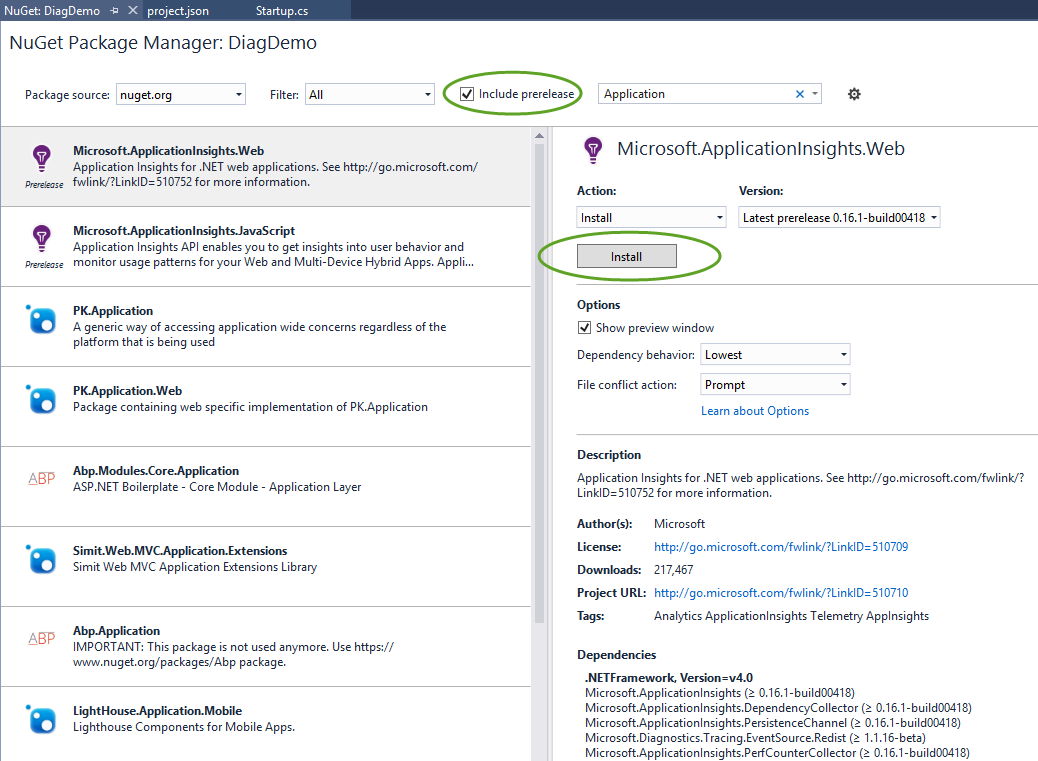
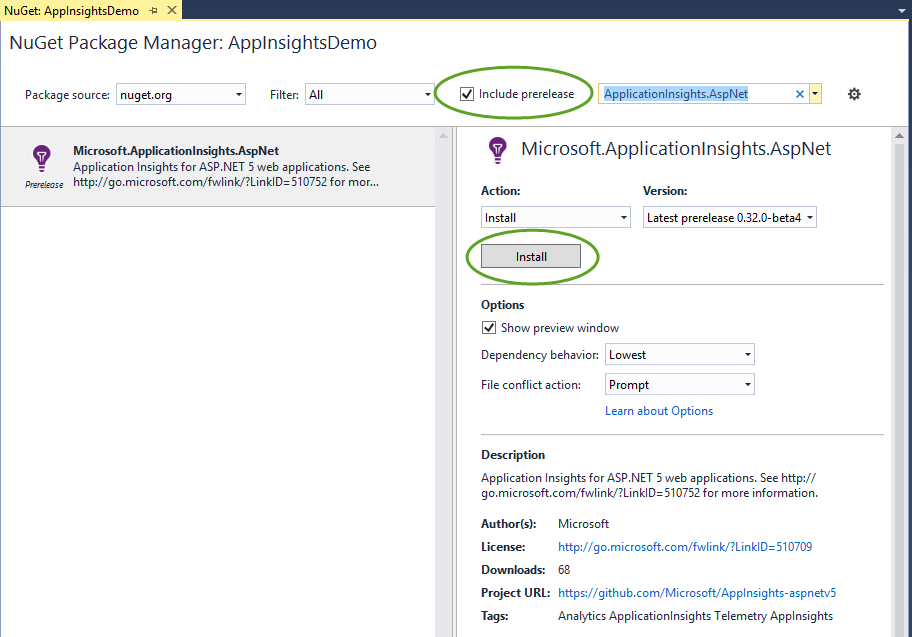
Getting started section about done; needs some testing.

diff --git a/docs/fundamentals/application-insights/sample/src/AppInsightsDemo/Startup.cs b/docs/fundamentals/application-insights/sample/src/AppInsightsDemo/Startup.cs
@@ -10,7 +10,7 @@ using Microsoft.Data.Entity;
 using Microsoft.Framework.ConfigurationModel;
 using Microsoft.Framework.Logging;
 using AppInsightsDemo.Models;
-//using Microsoft.ApplicationInsights.AspNet;
+using Microsoft.ApplicationInsights.AspNet;
 
 namespace AppInsightsDemo
 {
@@ -28,6 +28,7 @@ namespace AppInsightsDemo
                 // This reads the configuration keys from the secret store.
                 // For more details on using the user secret store see http://go.microsoft.com/fwlink/?LinkID=532709
                 configuration.AddUserSecrets();
+                configuration.AddApplicationInsightsSettings(developerMode: true);
             }
             configuration.AddEnvironmentVariables();
             Configuration = configuration;
@@ -41,7 +42,7 @@ namespace AppInsightsDemo
             // Add Application settings to the services container.
             services.Configure<AppSettings>(Configuration.GetSubKey("AppSettings"));
 
-            //services.AddApplicationInsightsTelemetry(Configuration);
+            services.AddApplicationInsightsTelemetry(Configuration);
 
             // Add EF services to the services container.
             services.AddEntityFramework()
@@ -81,6 +82,7 @@ namespace AppInsightsDemo
         public void Configure(IApplicationBuilder app, IHostingEnvironment env, ILoggerFactory loggerfactory)
         {
             // Configure the HTTP request pipeline.
+            app.UseApplicationInsightsRequestTelemetry();
 
             // Add the console logger.
             loggerfactory.AddConsole(minLevel: LogLevel.Warning);
@@ -98,6 +100,7 @@ namespace AppInsightsDemo
                 // sends the request to the following path or controller action.
                 app.UseErrorHandler("/Home/Error");
             }
+            app.UseApplicationInsightsExceptionTelemetry();
 
             // Add static files to the request pipeline.
             app.UseStaticFiles();

diff --git a/docs/fundamentals/application-insights.rst b/docs/fundamentals/application-insights.rst
@@ -29,7 +29,7 @@ Next, update ``project.json`` to add a new reference to ``Microsoft.ApplicationI
 
 .. image:: application-insights/_static/manage-nuget-packages.png
 
-Then be sure you have checked ``Include prerelease`` and that your package source is ``nuget.org``. Search for "Application" and you should see ``Microsoft.ApplicationInsights.Web`` as one of the first choices. Click the ``Install`` button and accept the license agreement.
+Then be sure you have checked ``Include prerelease`` and that your package source is ``nuget.org``. Search for "ApplicationInsights.AspNet" and you should see ``Microsoft.ApplicationInsights.AspNet`` as one of the first choices. Click the ``Install`` button and accept the license agreement.
 
 .. image:: application-insights/_static/nuget-package-manager.png
 
@@ -37,7 +37,7 @@ This will download and install a number of packages and may take a few minutes. 
 
 .. code-block:: javascript
 
-	"Microsoft.ApplicationInsights.Web": "0.16.1-build00418"
+	"Microsoft.ApplicationInsights.AspNet": "0.32.0-beta4"
 
 Next, edit (or create) the ``config.json`` file, adding the instrumentation key you noted above from your Application Insights resource in Windows Azure. Specify an "ApplicationInsights" section with a key named "InstrumentationKey". Set its value to the instrumentation key.
 
@@ -45,11 +45,37 @@ Next, edit (or create) the ``config.json`` file, adding the instrumentation key 
 	:linenos:
 	:emphasize-lines: 2-3
 	
-Next, in ``Startup.cs`` you need to configure Application Insights in the ``ConfigureServices()`` method. Add the ``Microsoft.ApplicationInsights.AspNet`` namespace to your using list, and the highlighted line below to ``ConfigureServices()``:
+Next, in ``Startup.cs`` you need to configure Application Insights in a few places. In the constructor, where you configure ``Configuration``, add a block to configure Application Insights for development:
+
+.. code-block:: c#
+
+	if (env.IsEnvironment("Development"))
+	{
+		configuration.AddApplicationInsightsSettings(developerMode: true);
+	}
+
+Add the ``Microsoft.ApplicationInsights.AspNet`` namespace to your using list, and then add `` services.AddApplicationInsightsTelemetry(Configuration);`` to ``ConfigureServices()``.
+
+Then, in the ``Configure()`` method add middleware to allow Application Insights to track exceptions and log information about individual requests. Note that the request tracking middleware should be as the first middleware in the pipeline, while the exception middleware should follow the configuration of error pages or other error handling middleware.
+
+A complete listing of ``Startup.cs`` is shown below, with the Application Insights code highlighted.
 
 .. literalinclude:: application-insights/sample/src/AppInsightsDemo/Startup.cs
 	:linenos:
-	:emphasize-lines: 2-3
+	:emphasize-lines: 13,31,45,85,103
+
+The last file that needs to be updated in order to finish setting up your ASP.NET 5 application to use Application Insights is ``_Layout.cshtml``. Add the following to the very top of the file:
+
+.. code-block:: c#
+
+	@inject Microsoft.ApplicationInsights.Extensibility.TelemetryConfiguration TelemetryConfiguration 
+
+Then, add one line of code at the end of the ``<head>`` section:
+
+.. code-block:: html
+
+		@Html.ApplicationInsightsJavaScript(TelemetryConfiguration) 
+	</head>
 
 
 Viewing activity
